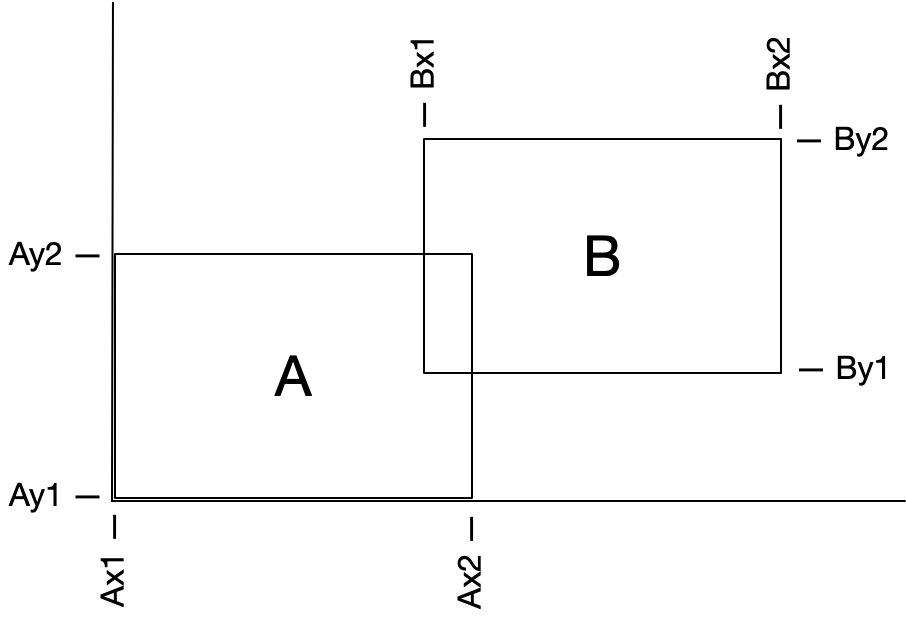
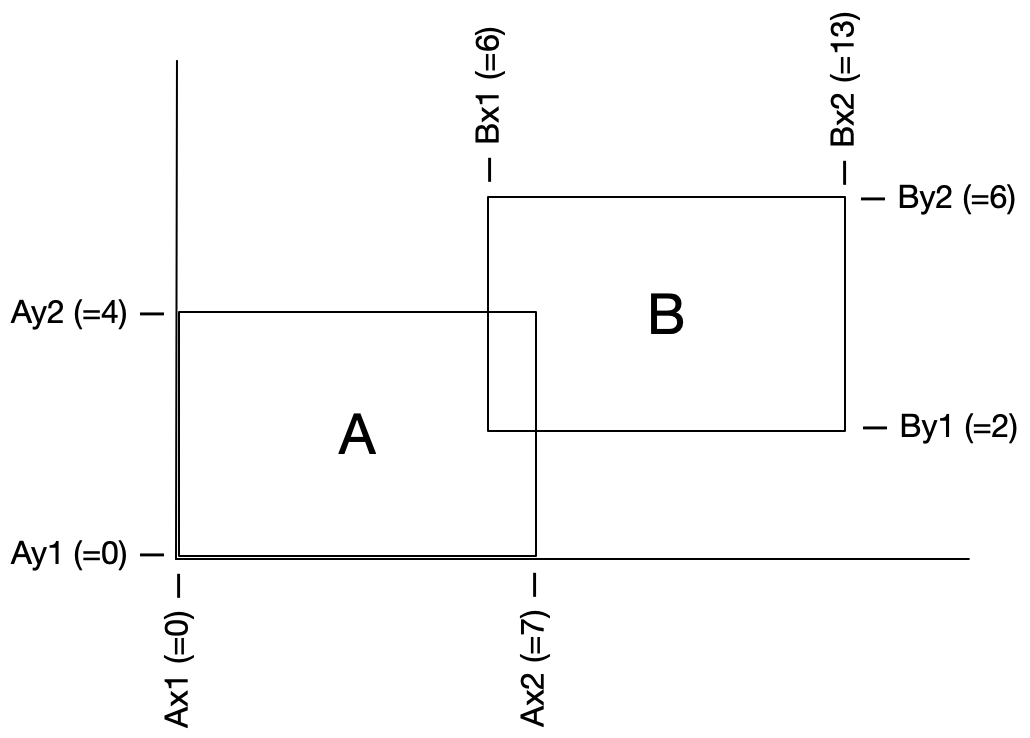
rh

Changed region(s): [[0.0, 0.0, 1.0, 0.9838], [0.6181, 0.3689, 0.6799, 0.4612], [0.3091, 0.5534, 0.3709, 0.6456]]

diff --git a/opdrachten/week2/rechthoeken/index.md b/opdrachten/week2/rechthoeken/index.md
@@ -1,12 +1,13 @@
 # Gelijke rechthoeken
 
-![](rechthoeken.png){: width="315"}
+![](rechthoeken.png){: width="415"}
 
 We gaan een programma schrijven om te bepalen of twee rechthoeken dezelfde afmetingen hebben.
 Als je naar het voorbeeld hierboven kijkt zie je dat de rechthoeken ongeveer even groot lijken.
 We kunnen dit precies bepalen als we de coördinaten van de rechthoeken hebben.
-In dit geval hebben we een aantal gegevens, zoals de x-waarden van de *linkerzijde* van A (Ax1) en *rechterzijde* van A (Ax2).
+In dit geval hebben we een aantal gegevens, zoals de positie van de *linkerzijde* van A (Ax1) en *rechterzijde* van A (Ax2).
 Trek je deze van elkaar af, dan heb je één van de beide afmetingen van A.
+Met hulp van Ay1 en Ay2 kun je de andere afmeting berekenen. Daarna volgt rechthoek B.
 
 ## Opdracht
 
